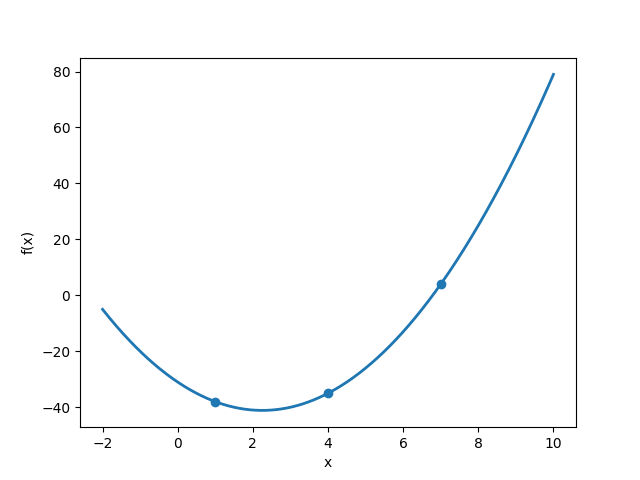
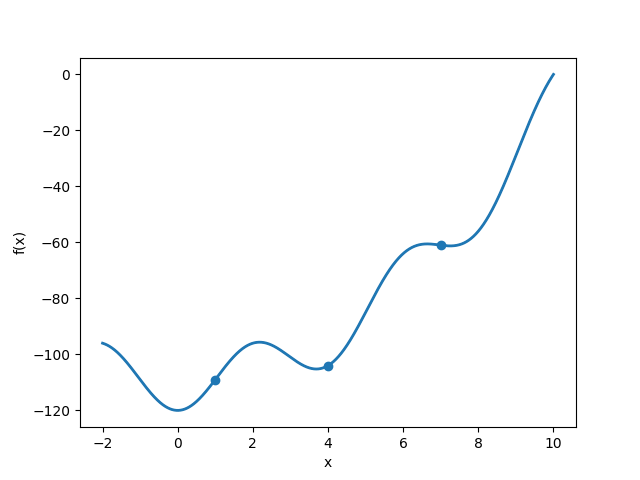
tpsearch

diff --git a/09_three_point_division/tpsearch.py b/09_three_point_division/tpsearch.py
@@ -5,9 +5,12 @@ import matplotlib  # Импортирует основной модуль Matplo
 matplotlib.use('Agg')  # Устанавливает backend 'Agg' для сохранения графиков в файлы без GUI (подходит для серверов/headless-режима).
 import matplotlib.pyplot as plt  # Импортирует pyplot из Matplotlib под псевдонимом plt — основной инструмент построения графиков.
 
-def f(x): return 2 * (x ** 2) - 9 * x - 31  # Определяет целевую функцию f(x) = 2x² - 9x - 31.
+'''def f(x): return 2 * (x ** 2) - 9 * x - 31  # Определяет целевую функцию f(x) = 2x² - 9x - 31.'''
 
-#def df(x): return 4 * x - 9  # Определяет производную f'(x) = 4x - 9 (не используется в этом алгоритме, но оставлена для совместимости).
+def f1(x):     return -2 * np.sin(np.sqrt(abs(x / 2 + 10))) - x * np.sin(np.sqrt(abs(x - 10)))
+
+def f(x):    return x**2-10*np.cos(0.5* np.pi*x)-110
+
 
 def tpsearch(interval, tol):  # Функция поиска минимума методом трёхточечного поиска (похож на метод золотого сечения или трисекции).
     # searches for minimum using bisection method
